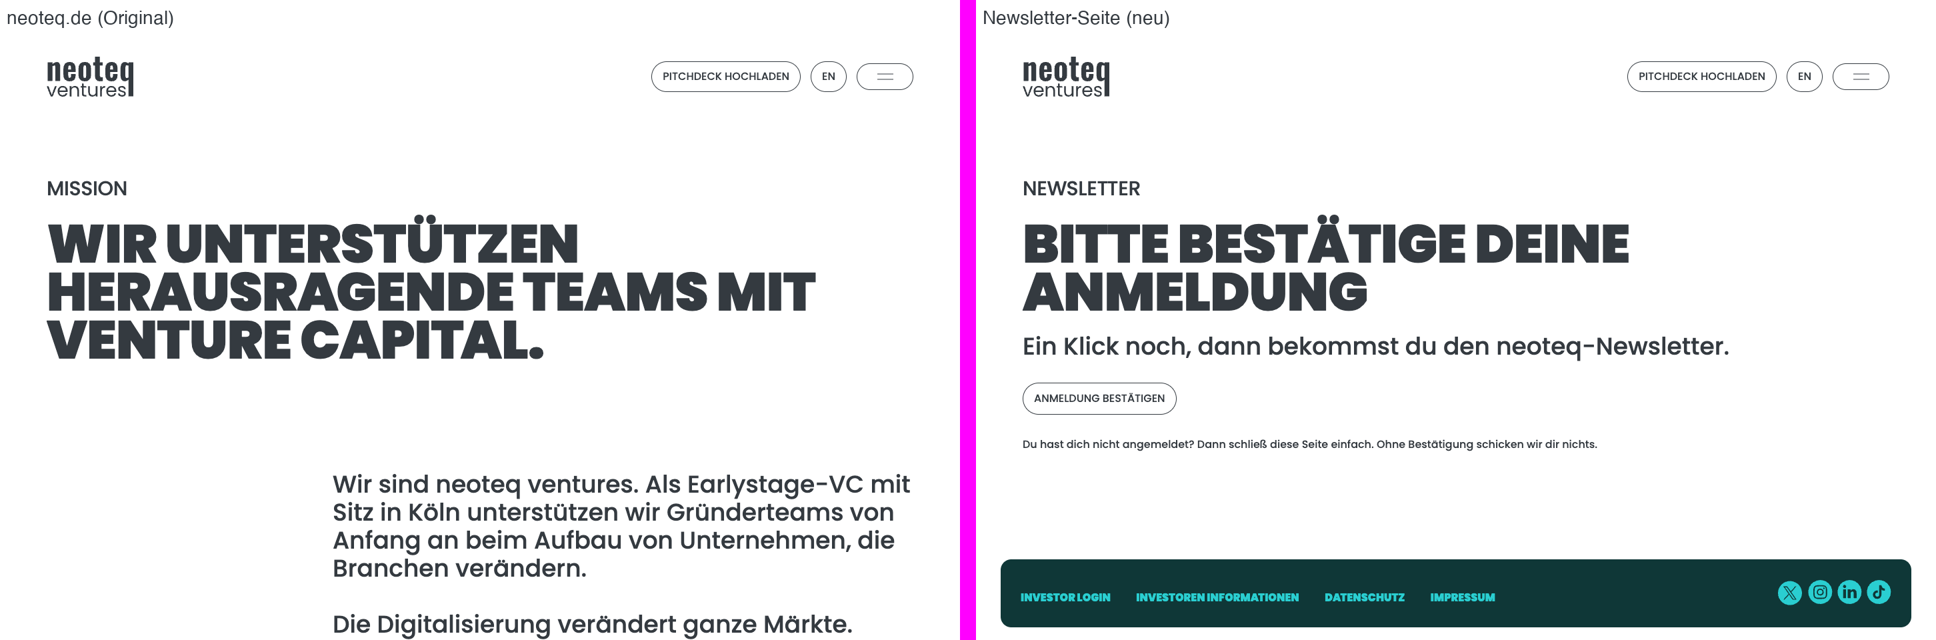
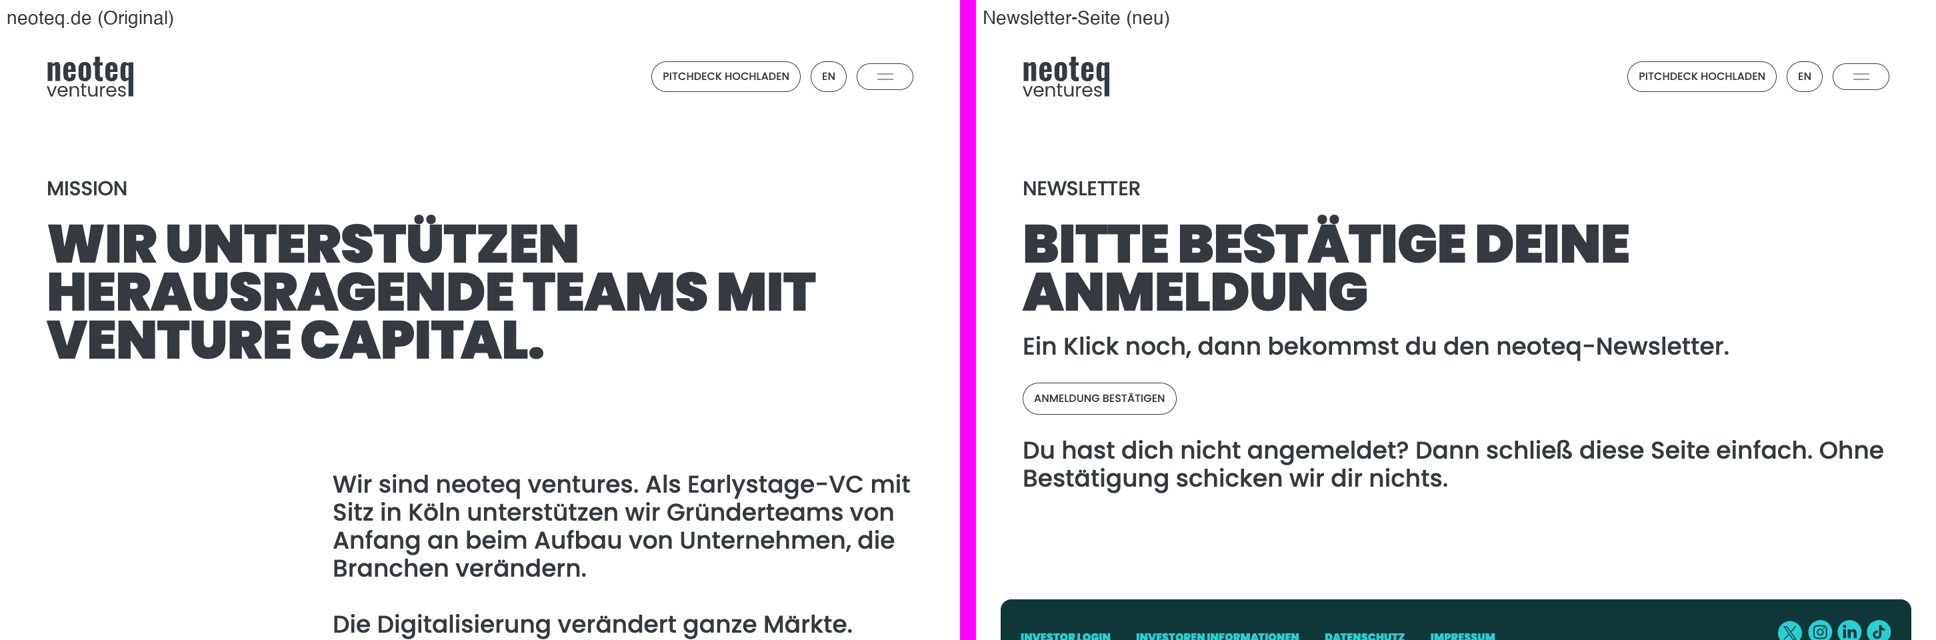
Hinweistext in normaler Textgröße
Abfolge wie auf neoteq.de: Dachzeile klein, Überschrift groß, danach
Fließtext in 36 px (mobil 21 px). Nur der Button bleibt 16 px.

Changed region(s): [[0.4959, 0.875, 0.9917, 0.9375], [0.5269, 0.6875, 0.9917, 0.7812], [0.4959, 0.9688, 0.9917, 1.0]]

diff --git a/assets/style.css b/assets/style.css
@@ -125,7 +125,7 @@ main { margin-top: 200px; }
 .dachzeile { display: block; margin-bottom: 25px; font-size: 30px; font-weight: 400; letter-spacing: -.4px; line-height: 45px; text-transform: uppercase; }
 h1 { font-size: 80px; font-weight: 900; letter-spacing: -.8px; line-height: 72px; margin-bottom: 25px; text-transform: uppercase; overflow-wrap: break-word; }
 .inhalt p { display: block; margin-bottom: 33px; }
-.inhalt .leise { margin: 33px 0 0; font-size: 16px; line-height: 24px; }
+.inhalt .leise { margin: 33px 0 0; }  /* gleiche Größe wie der übrige Text, wie auf neoteq.de */
 .zustand:focus { outline: none; }
 
 /* Footer, ohne den Newsletter-iFrame von neoteq.de (Drittanbieter) */

diff --git a/DESIGN.md b/DESIGN.md
@@ -60,7 +60,7 @@ Mobil gilt `hyphens: auto` für `main`.
 - Block mit Aufruf `.mask_text_teaser` („GET IN TOUCH“ auf /de/mission): Dachzeile, `.h1`, Button, linksbündig.
   Abstand zum Button 33 px (mobil 28 px).
 - **Newsletter-Seiten:** Seitenkopf wie /de/mission, danach wie im Teaser ein kurzer Satz im Fließtext (36/42 px, mobil 21/28 px), der Button
-  und ein Hinweis in `.text-body2` (16/24 px).
+  und ein Hinweis, ebenfalls im Fließtext (36/42 px). Nur der Button ist 16 px, wie überall auf neoteq.de.
 
 ## Rundungen
 
